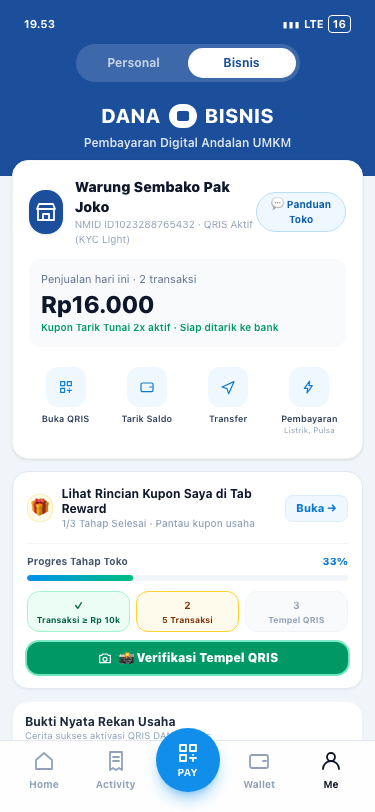
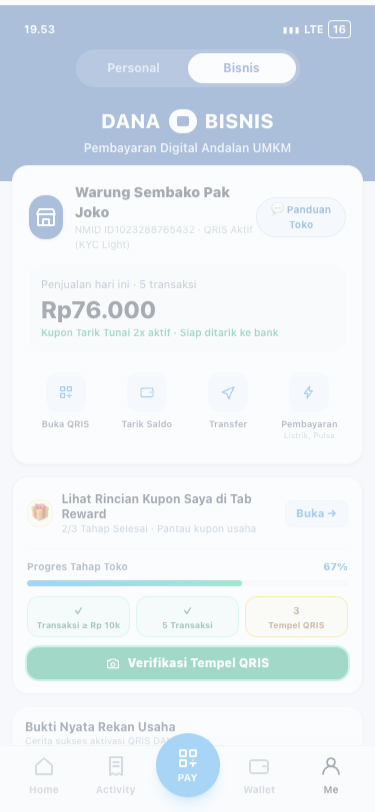
feat(screens): update joko checkpoint to 67% progress with photo verification remaining

diff --git a/scripts/generate_all_deck_screens.jsx b/scripts/generate_all_deck_screens.jsx
@@ -70,7 +70,7 @@ const jokoCheckpoint = {
     referrals: [],
     hasSeenBizGuide: true,
   },
-  progress: { stage1: true, biz_guide: true },
+  progress: { stage1: true, stage2_tx: true, biz_guide: true },
 };
 const jokoWithGuideAndCheckpoint = {
   ...joko,
@@ -170,7 +170,7 @@ const list = [
   },
   { id: '3_3_4_inbox_notifications', html: wrapHtml(renderToStaticMarkup(<screens.inbox {...rian} />)) },
   { id: '3_3_5_reward_joko', html: wrapHtml(renderToStaticMarkup(<screens.rewards {...joko} />)) },
-  { id: '3_3_6_bizprofile_checkpoint_progres', html: wrapHtml(renderToStaticMarkup(<screens.bizdash {...jokoCheckpoint} />)) },
+  { id: '3_3_6_bizprofile_checkpoint_progres', html: wrapHtml(renderToStaticMarkup(<screens.bizdash {...jokoCheckpoint} initialTour={false} />)) },
 
   // 3.4 Referred Merchant Experience
   { id: '3_4_0_whatsapp_invite_joko', html: wrapHtml(renderToStaticMarkup(<screens.whatsapp_invite />), '#ECE5DD') },
@@ -178,7 +178,7 @@ const list = [
   { id: '3_4_2_merchant_register', html: wrapHtml(renderToStaticMarkup(<screens.register {...joko} />)) },
   { id: '3_4_3_merchant_qris_active', html: wrapHtml(renderToStaticMarkup(<screens.qris {...joko} />)) },
   { id: '3_4_4_merchant_bizdash', html: wrapHtml(renderToStaticMarkup(<screens.bizdash {...jokoWithGuideAndCheckpoint} initialTour={true} />)) },
-  { id: '3_4_5_merchant_progres_tahap_toko', html: wrapHtml(renderToStaticMarkup(<screens.bizdash {...jokoCheckpoint} />)) },
+  { id: '3_4_5_merchant_progres_tahap_toko', html: wrapHtml(renderToStaticMarkup(<screens.bizdash {...jokoCheckpoint} initialTour={false} />)) },
   {
     id: '3_4_6_qris_verification_modal',
     html: wrapHtml(

diff --git a/src/hostApp.jsx b/src/hostApp.jsx
@@ -1153,7 +1153,7 @@ export function BizDash({
                       className="mt-2.5 flex w-full items-center justify-center gap-1.5 rounded-xl py-2 px-3 text-xs font-black transition active:scale-98 bg-emerald-600 hover:bg-emerald-700 text-white cursor-pointer ring-2 ring-emerald-400/50 shadow-sm shadow-emerald-500/20"
                     >
                       <Icon name="camera" className="h-4 w-4" />
-                      📸 Verifikasi Tempel QRIS
+                      Verifikasi Tempel QRIS
                     </button>
                   )}
                 </div>

diff --git a/deck_screens/README.md b/deck_screens/README.md
@@ -33,7 +33,7 @@ Seluruh gambar di folder ini berformat PNG resolusi tinggi dengan ukuran standar
 12. `3_3_3_bizprofile_milestone.png` — **Profil DANA Bisnis Mitra Binaan (Pak Joko):** Tampilan profil DANA Bisnis Pak Joko setelah panduan fitur selesai (status Sahabat DANA, monitoring transaksi penjualan, 4 aksi operasional toko, dan kupon reward aktif penuh).
 13. `3_3_4_inbox_notifications.png` — **Notifikasi Inbox DANA:** Log transparansi notifikasi pencairan saldo otomatis dan validasi transaksi real-time.
 14. `3_3_5_reward_joko.png` — **Tab Reward Mitra Binaan (Pak Joko):** Kupon eksklusif operasional merchant baru: Bebas Biaya Tarik Tunai (2x) & Bebas Admin Transaksi (10x).
-15. `3_3_6_bizprofile_checkpoint_progres.png` — **Profil DANA Bisnis Checkpoint Progres (Pak Joko):** Card Progres Tahap Toko (Transaksi ≥ Rp10k ✓, 5 Transaksi, Tempel QRIS) dengan tombol Verifikasi Tempel QRIS.
+15. `3_3_6_bizprofile_checkpoint_progres.png` — **Profil DANA Bisnis Checkpoint Progres (Pak Joko):** Tampilan profil tanpa bubble guide, 5 transaksi selesai, progress bar 67% (2/3 selesai: Transaksi ≥ Rp10k ✓, 5 Transaksi ✓), dan tombol aksi *Verifikasi Tempel QRIS*.
 
 ---
 
@@ -43,5 +43,5 @@ Seluruh gambar di folder ini berformat PNG resolusi tinggi dengan ukuran standar
 18. `3_4_2_merchant_register.png` — **Konfirmasi Registrasi Kilat:** Data toko sudah otomatis ter-prefill dari pengundang, aktif < 30 detik tanpa upload e-KTP di awal (*KYC Light*).
 19. `3_4_3_merchant_qris_active.png` — **Standee QRIS Kasir Toko Aktif:** QRIS instan siap pakai + Simulasi Uji Coba Scan & Notifikasi Audio Suara DANA *"Pembayaran Berhasil!"*.
 20. `3_4_4_merchant_bizdash.png` — **Dashboard & Onboarding DANA Bisnis Toko:** Panduan fitur interaktif (*Bubble Feature Guidance* "Buka QRIS"), monitoring saldo & penjualan toko, serta checklist progress bar *"Progres Tahap Toko"* (33%) dan tombol verifikasi tempel QRIS.
-21. `3_4_5_merchant_progres_tahap_toko.png` — **Checkpoint Progres Tahap Toko:** Tampilan fokus card Progres Tahap Toko (1/3 Tahap Selesai, 3 checkpoint indikator, dan tombol aksi Verifikasi Tempel QRIS).
+21. `3_4_5_merchant_progres_tahap_toko.png` — **Checkpoint Progres Tahap Toko (Tinggal Verifikasi Foto QRIS):** Tampilan profil DANA Bisnis Pak Joko pasca melewati feature guidance, target 5 transaksi selesai tercapai (Rp76.000 omset hari ini), progress bar 67% (2/3 Tahap Selesai), dan tombol aksi *Verifikasi Tempel QRIS*.
 22. `3_4_6_qris_verification_modal.png` — **Modal Verifikasi Meja Kasir (Tahap 2):** Audit foto standee kasir terpasang, validasi GPS toko (`GPS MATCH ✓`), checklist 5/5 transaksi unik, dan tombol konfirmasi klaim Tahap 2.
